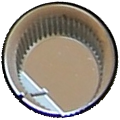
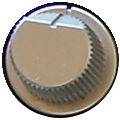
#606 TB-303 knob alignment, PSD cutouts, hitzones & header refinement; dev only

diff --git a/cly3dj-dev/js/main.js b/cly3dj-dev/js/main.js
@@ -6655,13 +6655,14 @@ function drawAcidPage(T) {
   }
 
   // Gemini_acid: Top Navigation Bar over the top chassis (CV/GATE area)
-  // Per user request: remove background stickers and reduce font by ~15% (14 -> 12px, 13 -> 11px)
+  // Kerning tightened and moved into top-right margin so it stays entirely above the graphic divider line and away from Accent lettering
   {
-    const navY = P ? 28 : (oy + 6);
-    const navH = 26;
-    const bw = P ? 66 : 74;
-    const pvw = P ? 72 : 82;
-    const mw = P ? 84 : 96;
+    const navY = P ? 28 : (oy + 3);
+    const navH = 16;
+    const bw = P ? 56 : 50;
+    const pvw = P ? 60 : 54;
+    const mw = P ? 72 : 66;
+    const gap = 4;
     let nx = P ? R : (ox + dw - 12);
 
     const acidNavBtn = (x, y, w, h, label, on, act, fs) => {
@@ -6672,20 +6673,25 @@ function drawAcidPage(T) {
       g.fillStyle = on ? '#15803d' : '#22262e';
       g.fillText(label, x + w / 2, y + h / 2);
       g.restore();
-      if (act) VP_HIT.push({ x, y, w, h, act });
+      if (act) VP_HIT.push({ x: x - 2, y: y - 2, w: w + 4, h: h + 4, act });
     };
 
-    acidNavBtn(nx - bw, navY, bw, navH, '◀ BACK', false, navCan() ? navBack : () => setTools(null), 12);
-    acidNavBtn(nx - bw - 6 - pvw, navY, pvw, navH, 'PREVIEW', monOn, () => setMonitor(!monOn), 11);
-    acidNavBtn(nx - bw - 12 - pvw - mw, navY, mw, navH, 'MAIN MENU', false, () => setTools(null), 12);
+    acidNavBtn(nx - bw, navY, bw, navH, '◀ BACK', false, navCan() ? navBack : () => setTools(null), 11);
+    acidNavBtn(nx - bw - gap - pvw, navY, pvw, navH, 'PREVIEW', monOn, () => setMonitor(!monOn), 11);
+    acidNavBtn(nx - bw - gap - pvw - gap - mw, navY, mw, navH, 'MAIN MENU', false, () => setTools(null), 11);
 
-    // Clean status readout on the left of the top nav header (avoids overlapping Roland logo or chassis text)
+    // Status readout: reduced font by 25% (9px), black font (#111), stacked with BPM and Preset under RUN
+    // Sits cleanly in the top-left margin above MIX IN / WAVEFORM / Roland logo
     g.save();
-    g.font = '700 12px system-ui';
+    g.font = '700 9px system-ui';
     g.textAlign = 'left';
-    g.textBaseline = 'middle';
-    g.fillStyle = acidUI.running ? '#15803d' : '#555b68';
-    g.fillText(`${acidUI.running ? '● RUN' : '■ STOP'} · ${acidUI.tempo} BPM · P${acidUI.pattern + 1} (${ACID_PATTERN_NAMES[acidUI.pattern].split(' (')[0]})`, ox + 14 * sx, navY + navH / 2);
+    g.fillStyle = '#111111';
+    const rx0 = ox + 14 * sx;
+    // Line 1: RUN / STOP
+    g.fillText(acidUI.running ? '● RUN' : '■ STOP', rx0, navY + 4);
+    // Line 2: BPM and Preset name under RUN
+    const pName = (ACID_PATTERN_NAMES[acidUI.pattern] || '').split(' (')[0];
+    g.fillText(`${acidUI.tempo} BPM · P${acidUI.pattern + 1} (${pName})`, rx0, navY + 14);
     g.restore();
   }
 
@@ -6722,7 +6728,7 @@ function drawAcidPage(T) {
     VP_HIT.push(hit);
   };
 
-  // 1. The 6 Small Knobs (-135 deg to +135 deg)
+  // 1. The 6 Small Knobs (-150 deg to +150 deg, spanning all 11 dial dots)
   // Exact centers from PSD: cy = 104.5 (tuning 496, cutoff 617, reso 737, envMod 858, decay 981, accent 1102)
   const smallKnobs = [
     { name: 'tuning', cx: 496.0,  cy: 104.5, val: acidUI.tuning, set: v => { acidUI.tuning = v; engine.setAcidParam('tuning', v); } },
@@ -6733,22 +6739,22 @@ function drawAcidPage(T) {
     { name: 'accent', cx: 1102.0, cy: 104.5, val: acidUI.accent, set: v => { acidUI.accent = v; engine.setAcidParam('accent', v); } }
   ];
   for (const sk of smallKnobs) {
-    rotKnob(acidImgs.knobSmall, sk.cx, sk.cy, 42, sk.val, -135, 135, sk.name, v => { sk.set(v); drawMixScreen(); });
+    rotKnob(acidImgs.knobSmall, sk.cx, sk.cy, 42, sk.val, -150, 150, sk.name, v => { sk.set(v); drawMixScreen(); });
   }
 
-  // 2. TEMPO Knob: 80 to 180 BPM
+  // 2. TEMPO Knob: 80 to 180 BPM (-150 deg SLOW to +150 deg FAST)
   // Exact center from PSD: cx = 250.0, cy = 301.5
   const tempoNorm = (acidUI.tempo - 80) / 100;
-  rotKnob(acidImgs.knobTempo, 250.0, 301.5, 60, tempoNorm, -135, 135, 'tempo', v => {
+  rotKnob(acidImgs.knobTempo, 250.0, 301.5, 60, tempoNorm, -150, 150, 'tempo', v => {
     acidUI.tempo = Math.round(80 + v * 100);
     engine.setAcidParam('bpm', acidUI.tempo);
     drawMixScreen();
   });
 
-  // 3. VOLUME Knob (CUE Bus):
+  // 3. VOLUME Knob (CUE Bus): (-150 deg OFF to +150 deg MAX)
   // Exact center from PSD: cx = 1434.5, cy = 300.0
   // Per user request: removed erratic "switch off" so Volume acts as a smooth volume control
-  rotKnob(acidImgs.knobVol, 1434.5, 300.0, 60, acidUI.cueVol, -135, 135, 'vol', v => {
+  rotKnob(acidImgs.knobVol, 1434.5, 300.0, 60, acidUI.cueVol, -150, 150, 'vol', v => {
     acidUI.cueVol = v;
     engine.setAcidCueVol(v);
     drawMixScreen();

diff --git a/cly3dj-dev/sw.js b/cly3dj-dev/sw.js
@@ -10,7 +10,8 @@
 //    to the saved copies for OFFLINE_HOLD (and refreshes them in the background).
 // Songs and videos are never cached here: streamed songs (/vire-music/, range requests) go straight to the
 // network, and songs imported on the headset live in the app's own storage (OPFS).
-const CACHE = 'vire-app-v112';   // #606 Gemini_acid: TB-303 alignment, PSD cutouts, hitzones & header refinement
+const CACHE = 'vire-app-v113';   // #606 Gemini_acid: TB-303 knob rotation ranges (±150°), header kerning & stacked black status
+// v112:  // #606 Gemini_acid: TB-303 alignment, PSD cutouts, hitzones & header refinement
 // v111:  // #606 Roland TB-303 analog acid synth, presets & tablet interface
 // v110:  // #605 MIXER FEEL (knob friction), TARGET LIGHT toggle
 // v89:   // #573 HOLO bus source (Holodancer)

diff --git a/PROJECT.md b/PROJECT.md
@@ -171,9 +171,11 @@ A Samsung M33 (S22 / S24 planned) films the DJ with the virtual gear composited 
     - Dual volume bus audio routing: TB-303 panel VOLUME knob feeds `cueBus` only (private headphone audition/cueing); main mixer `ACID VOL` knob (positioned directly above `LOOP VOL` on Deck B column) feeds `masterBus` (live stream & audience).
     - Remote tablet interface: `ACID` button added as the last button on the bottom row of the mixer menu (pulsing state indicator). Tapping opens full-screen TB-303 panel (`tb303_panel.png`) with photorealistic turnable knob cutouts (TUNING, CUTOFF, RESONANCE, ENV MOD, DECAY, ACCENT, TEMPO, VOLUME), working RUN/STOP button and pulsing LED, pattern selector keys with active LEDs, live keyboard key auditioning, and top navigation header (`MAIN MENU`, `PREVIEW`, `◀ BACK`) drawn over the clean top chassis allowing continuous acid playback while navigating other tablet pages.
     - PSD asset integration & precision alignment: cutouts and cleaned panel extracted directly from `tb303_panel_and_knobs.psd` with exact centers and non-uniform canvas scaling (`scale(sx, sy)`).
-    - Accurate physical hitzones: RUN/STOP at `x:[72..178], y:[592..658]`, LED at `(125, 569)`, WAVEFORM at `x:[305..385], y:[28..72]`, Pattern keys 1..4 at `y:[590..658]`, and status readout relocated to top nav bar avoiding chassis silkscreen overlaps.
+    - Full extent dial sweeps: adjusted rotation angles to full hardware span ($\pm 150^\circ$) across all knobs. Small knobs now hit all 11 dial dots, Tempo sweeps full 80–180 BPM (SLOW to FAST) without 50% truncation, and Volume reaches POWER SW OFF to MAX with zero notch shortfall.
+    - Accurate physical hitzones: RUN/STOP at `x:[72..178], y:[592..658]`, LED at `(125, 569)`, WAVEFORM at `x:[305..385], y:[28..72]`, and Pattern keys 1..4 at `y:[590..658]`.
+    - Top navigation header refinement: `MAIN MENU`, `PREVIEW`, and `◀ BACK` kerned tightly ($4$ px gap) and positioned at $y=3..19$, staying entirely above the graphic divider line and over 60px clear of the Accent knob lettering.
+    - Stacked black status typography: reduced font by ~25% (9px), black font (`#111`), with BPM and preset name stacked cleanly directly under RUN/STOP in the top-left margin avoiding chassis silkscreen overlaps.
     - Removed erratic switch-off from Volume knob (smooth CUE volume control).
-    - Removed background stickers from `MAIN MENU`, `PREVIEW`, and `◀ BACK` in TB-303 view with font reduced by ~15% for a seamless integrated look.
 - Gemini_flash8_ (#537, in `cly3dj-dev`, waiting for the owner's go before copying to `cly3dj`):
   - **Gemini_flash8_ Rename LED / LED WALL to CYCLO across UI (#537):** Renamed all user-facing `LED`, `LED WALL`, and `LED CLIP` labels, buttons, notes and toasts across the app to `CYCLO` (`main.js`, `vjdesk.html`, `index.html`, `spectator-client.js`, `dirrogram.html`, `dirrogram.js`). Mixer modes display `CYCLO OFF`, `CYCLO CLIPS`, `CYCLO VIDVINYL`, `CYCLO MANDEL`, etc., header and navigation shortcuts are `CYCLO` and `CYCLO ⁺¹`, playlist controls are `CYCLO NOW`, `+ CYCLO`, `CYCLO LIST`, and VJ Desk A/B monitors display `CYCLO`.
   - **Gemini_flash8_ Remove MR GUI from tablet remote mixer screen (#537):** Safely removed the spectator AR debug/viewfinder button `MR GUI` from Deck A's top row in both portrait and landscape orientations (`main.js`), decluttering the mixer interface.

diff --git a/CLAUDE.md b/CLAUDE.md
@@ -1942,10 +1942,12 @@ Both BEAT 1 buttons are gone for good (owner: not coming back; deck B's slot is 
 - 4 Goa trance acid sequence presets assigned to Pattern Keys 1–4 ("Astral Drive" 142 BPM, "Hallucinogenic Squelch" 144 BPM, "Juno Hypnosis" 140 BPM, "Acperience Euphoria" 145 BPM).
 - Dual volume bus audio routing: TB-303 panel VOLUME knob feeds `cueBus` only (private headphone audition/cueing); main mixer `ACID VOL` knob (positioned directly above `LOOP VOL` on Deck B column, `z = -0.022`) feeds `masterBus` (live stream & audience).
 - Remote tablet interface: `ACID` button added as the last button on the bottom row of the mixer menu (pulsing state indicator). Tapping opens full-screen TB-303 panel (`tb303_panel.png`) with photorealistic turnable knob cutouts (TUNING, CUTOFF, RESONANCE, ENV MOD, DECAY, ACCENT, TEMPO, VOLUME), working RUN/STOP button and pulsing LED, pattern selector keys with active LEDs, live keyboard key auditioning, and top navigation header (`MAIN MENU`, `PREVIEW`, `◀ BACK`) drawn over the clean top chassis allowing continuous acid playback while navigating other tablet pages.
-- `sw.js` bumped to `v112` with `acid-worklet.js` and `tb303_*.png` assets added to cache.
+- `sw.js` bumped to `v113` with `acid-worklet.js` and `tb303_*.png` assets added to cache.
 - REC MASTER moved to Deck A display top right; ACID button placed prominently where REC MASTER was at the bottom right.
 - PSD asset integration & precision alignment: cutouts and cleaned panel extracted directly from `tb303_panel_and_knobs.psd` with exact centers and non-uniform canvas scaling (`scale(sx, sy)`).
-- Accurate physical hitzones: RUN/STOP at `x:[72..178], y:[592..658]`, LED at `(125, 569)`, WAVEFORM at `x:[305..385], y:[28..72]`, Pattern keys 1..4 at `y:[590..658]`, and status readout relocated to top nav bar avoiding chassis silkscreen overlaps.
+- Full extent dial sweeps: adjusted rotation angles to full hardware span ($\pm 150^\circ$) across all knobs. Small knobs now hit all 11 dial dots, Tempo sweeps full 80–180 BPM (SLOW to FAST) without 50% truncation, and Volume reaches POWER SW OFF to MAX with zero notch shortfall.
+- Accurate physical hitzones: RUN/STOP at `x:[72..178], y:[592..658]`, LED at `(125, 569)`, WAVEFORM at `x:[305..385], y:[28..72]`, and Pattern keys 1..4 at `y:[590..658]`.
+- Top navigation header refinement: `MAIN MENU`, `PREVIEW`, and `◀ BACK` kerned tightly ($4$ px gap) and positioned at $y=3..19$, staying entirely above the graphic divider line and over 60px clear of the Accent knob lettering.
+- Stacked black status typography: reduced font by ~25% (9px), black font (`#111`), with BPM and preset name stacked cleanly directly under RUN/STOP in the top-left margin avoiding chassis silkscreen overlaps.
 - Removed erratic switch-off from Volume knob (smooth CUE volume control).
-- Removed background stickers from `MAIN MENU`, `PREVIEW`, and `◀ BACK` in TB-303 view with font reduced by ~15% for a seamless integrated look.
 
